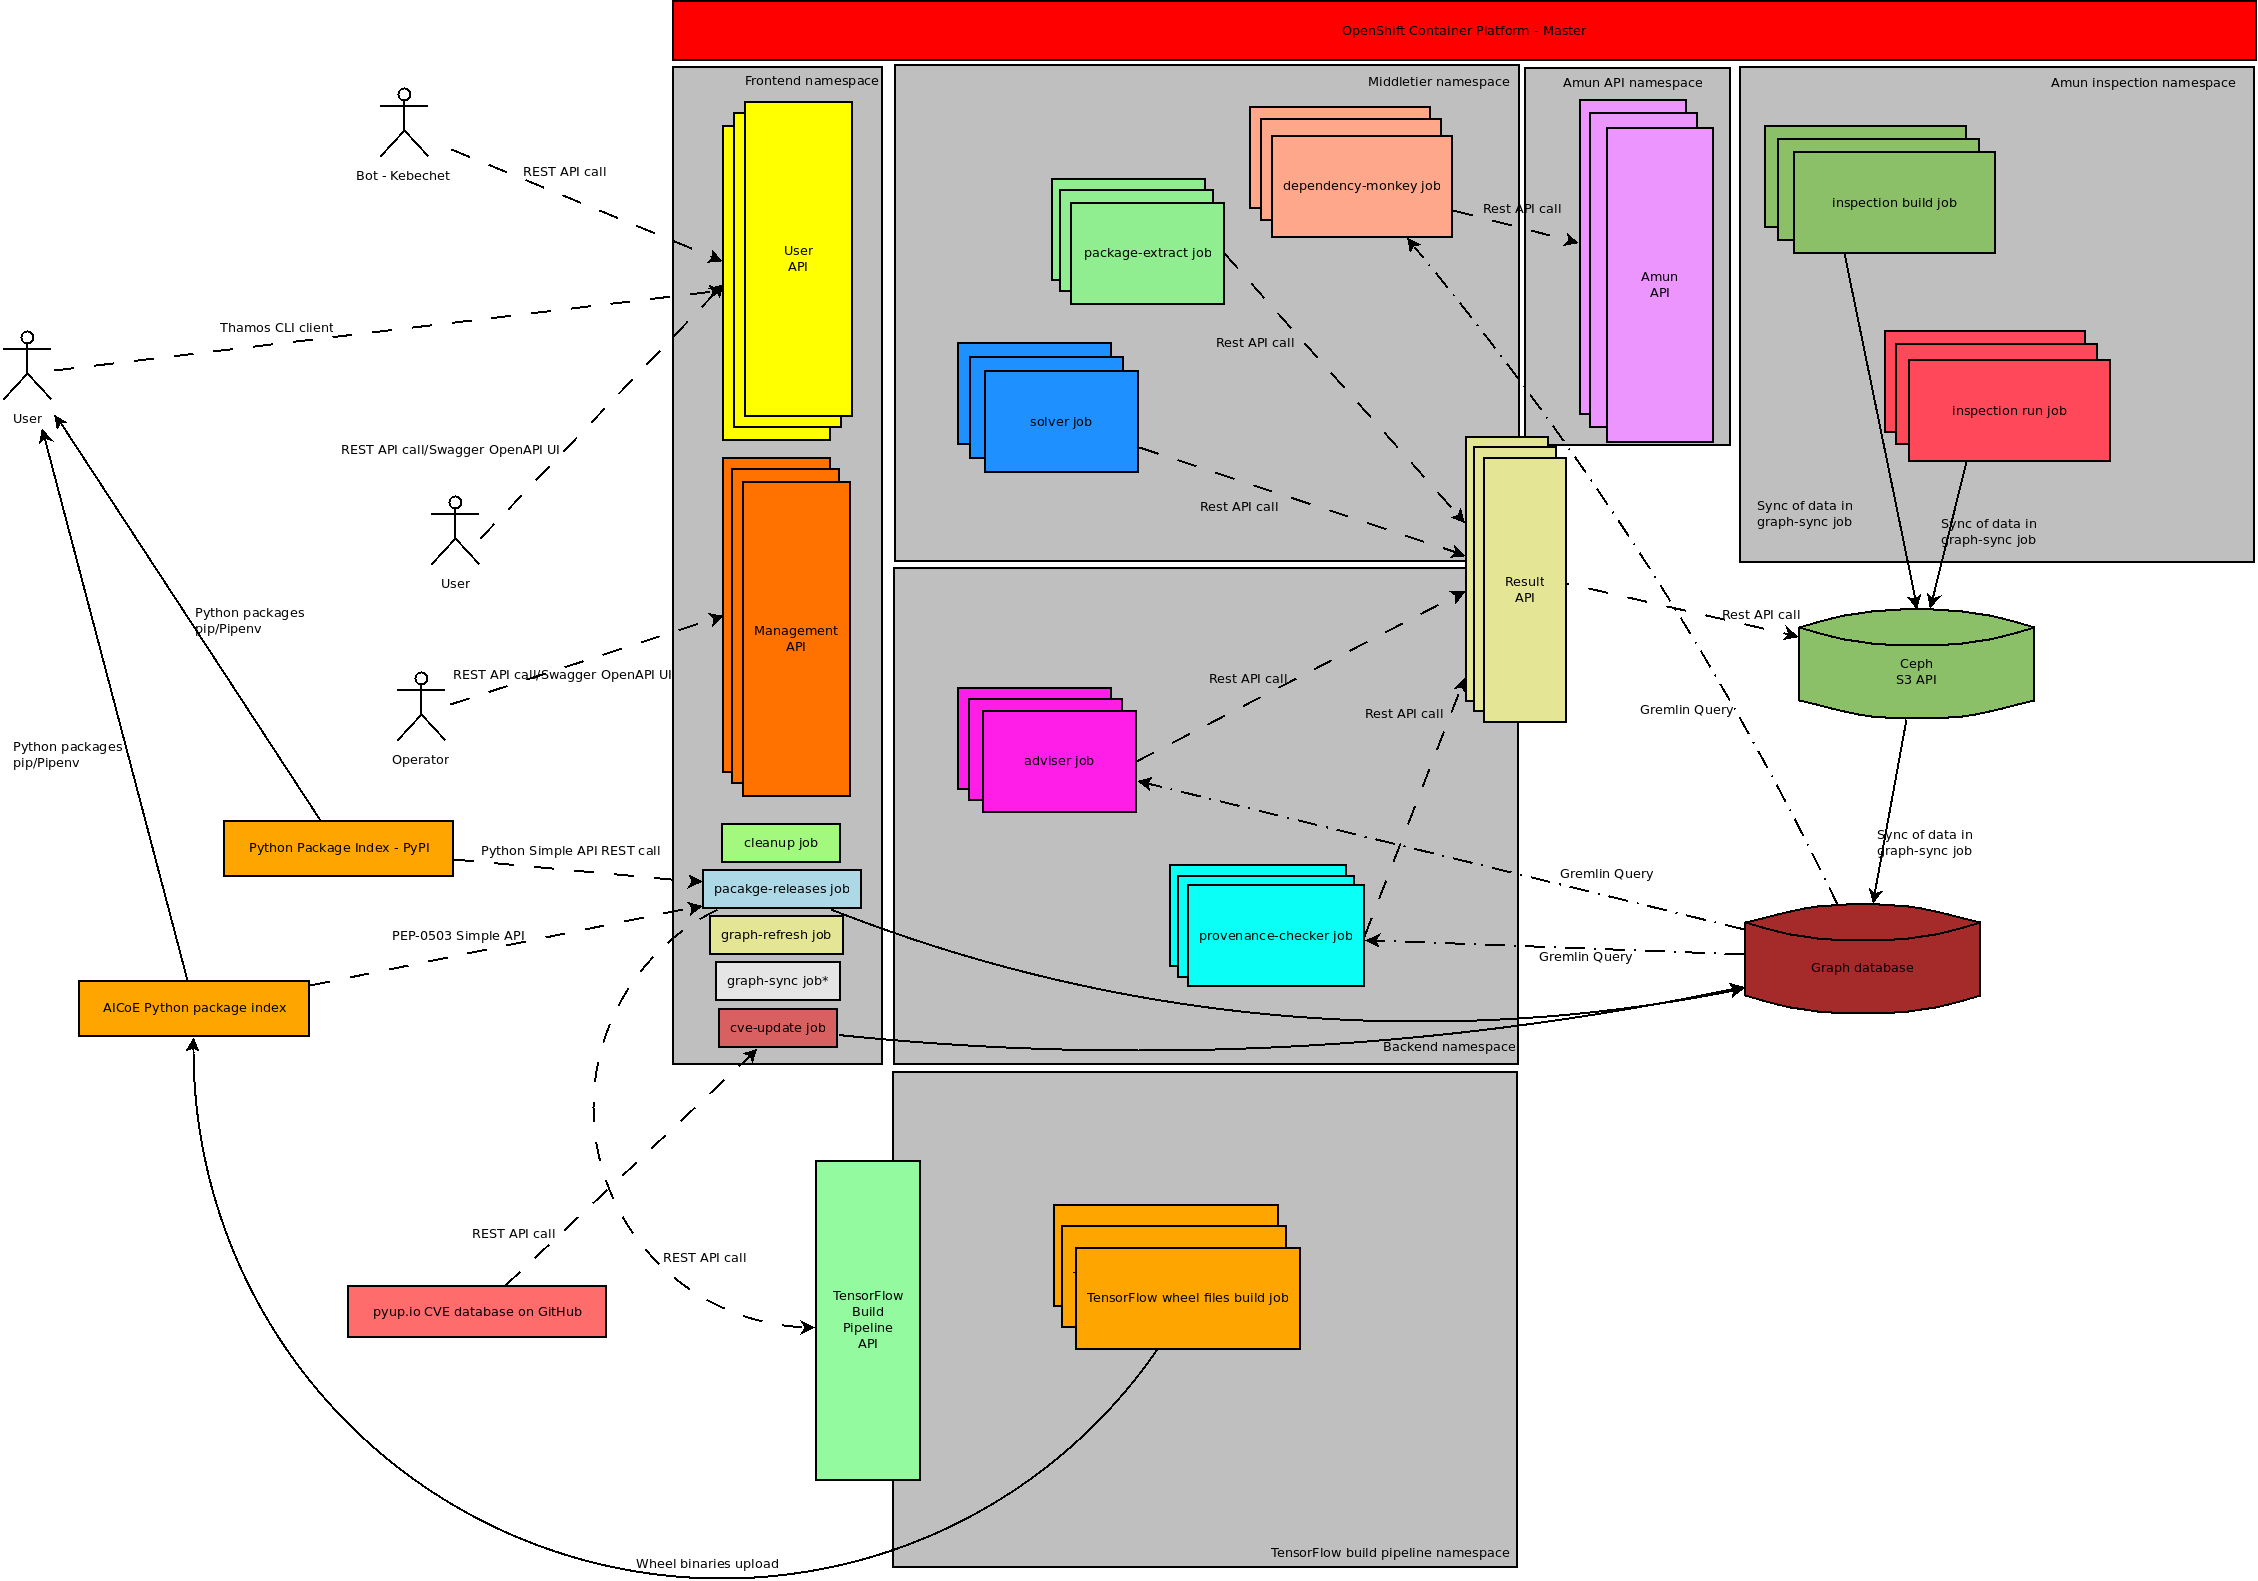
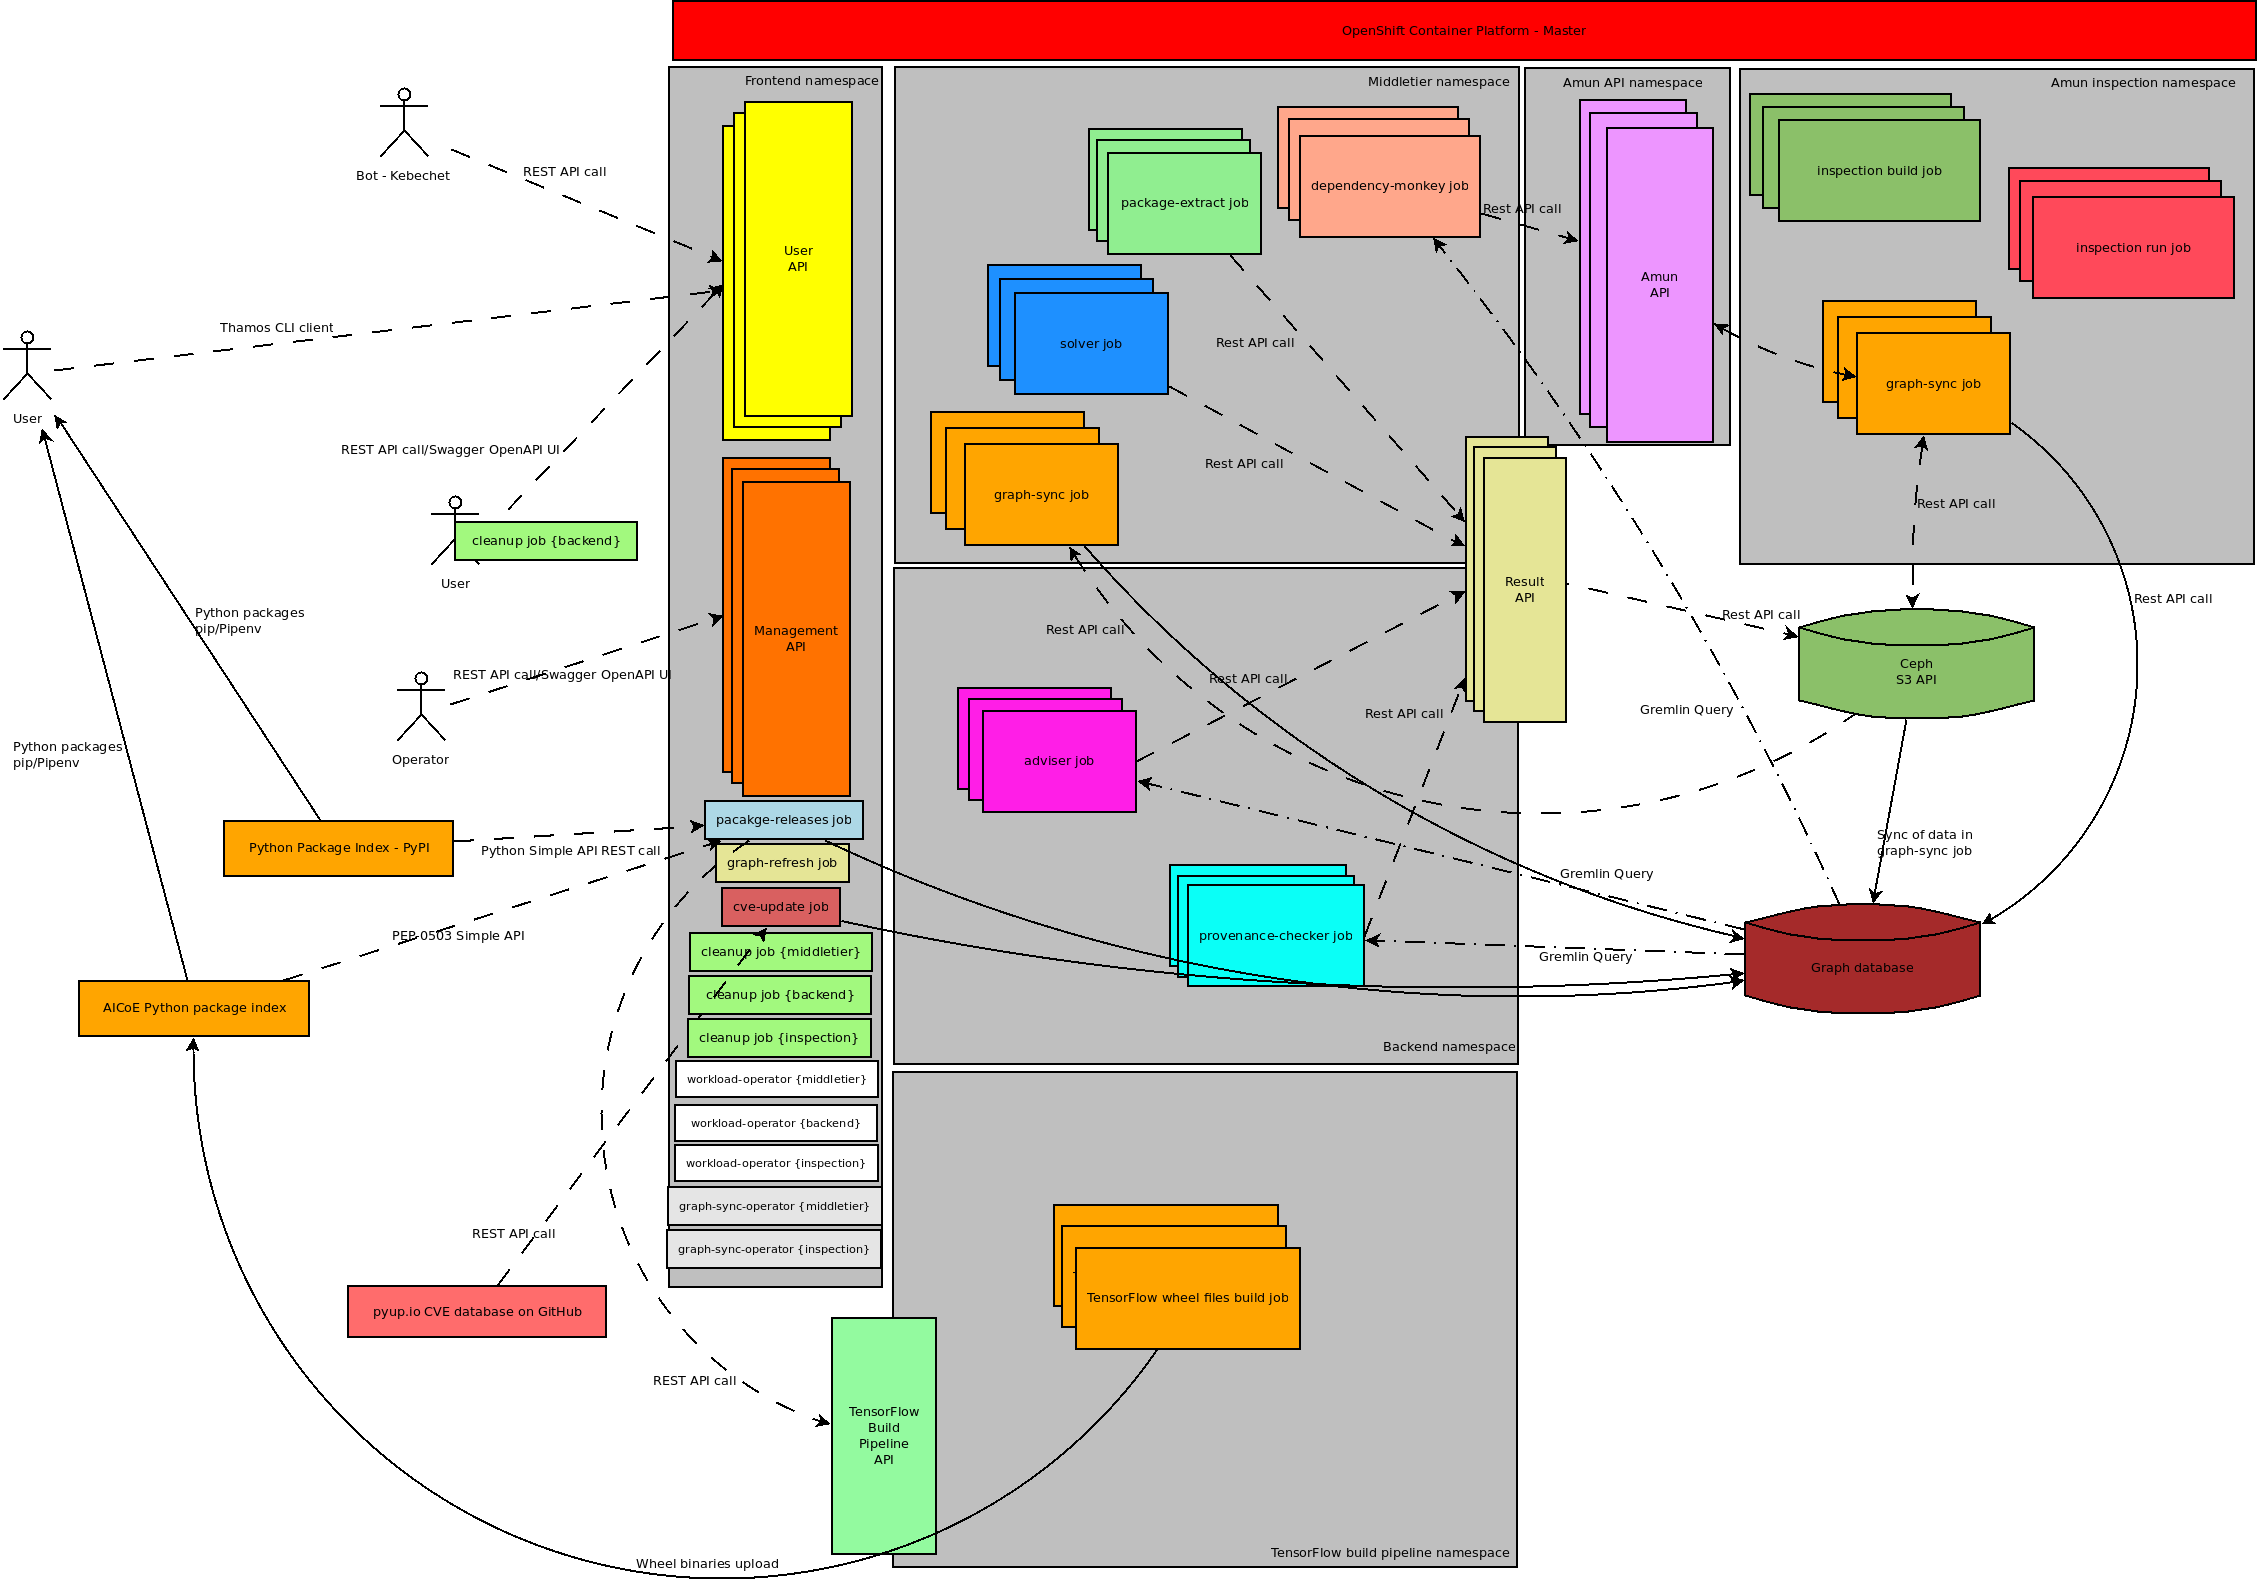
Update architecture diagram

diff --git a/README.rst b/README.rst
@@ -34,10 +34,12 @@ See `operations documentation <https://github.com/thoth-station/core/blob/master
 Architecture Overview
 ---------------------
 
-The whole deployment is divided into three namespaces (or two OpenShift projects) - ``thoth-frontend``, ``thoth-middletier`` and
-``thoth-backend``.
+The whole deployment is divided into multiple namespaces (or OpenShift projects) - ``thoth-frontend``, ``thoth-middletier``,
+``thoth-backend``, ``inspection`` and ``tensorflow build``.
 
 .. figure:: https://raw.githubusercontent.com/thoth-station/core/master/doc/architecture.png
+
+Some components are deployed multiple times. They serve the same purpose, but the operated namespace is parametrized. For example ``cleanup-job`` responsible for cleaning ``backend`` namespace is in the architecture overview shown as a rectangle with curly braces donating namespace which is operated by the ``cleanup-job``. The same applies for other components, such as ``workload-operator``.
 
 Frontend Namespace
 ##################
@@ -63,6 +65,8 @@ sync and operational:
 * `graph-sync-job <https://github.com/thoth-station/graph-sync-job>`_ - a job responsible for syncing data in JSON format persisten on Ceph to JanusGraph database
 * `package-releases-job <https://github.com/thoth-station/package-releases-job>`_ - a job responsible for tracking new releases on Python's package index (the public one is `PyPI.org <https://pypi.org>`_)
 * `cve-update-job <https://github.com/thoth-station/cve-update-job>`_ - a job responsible for gathering CVE information about packages
+* `workload-operator <https://github.com/thoth-station/workload-operator>`_ - an OpenShift operator responsible for scheduling jobs into namespaces, it respects allocated resources dedicated for the namespace in which jobs run
+* `graph-sync-operator <https://github.com/thoth-station/graph-sync-operator>`_ - an OpenShift operator responsible for scheduling graph-sync-jobs that sync results of analyzer job runs into graph database
 
 Middletier Namespace
 ####################
